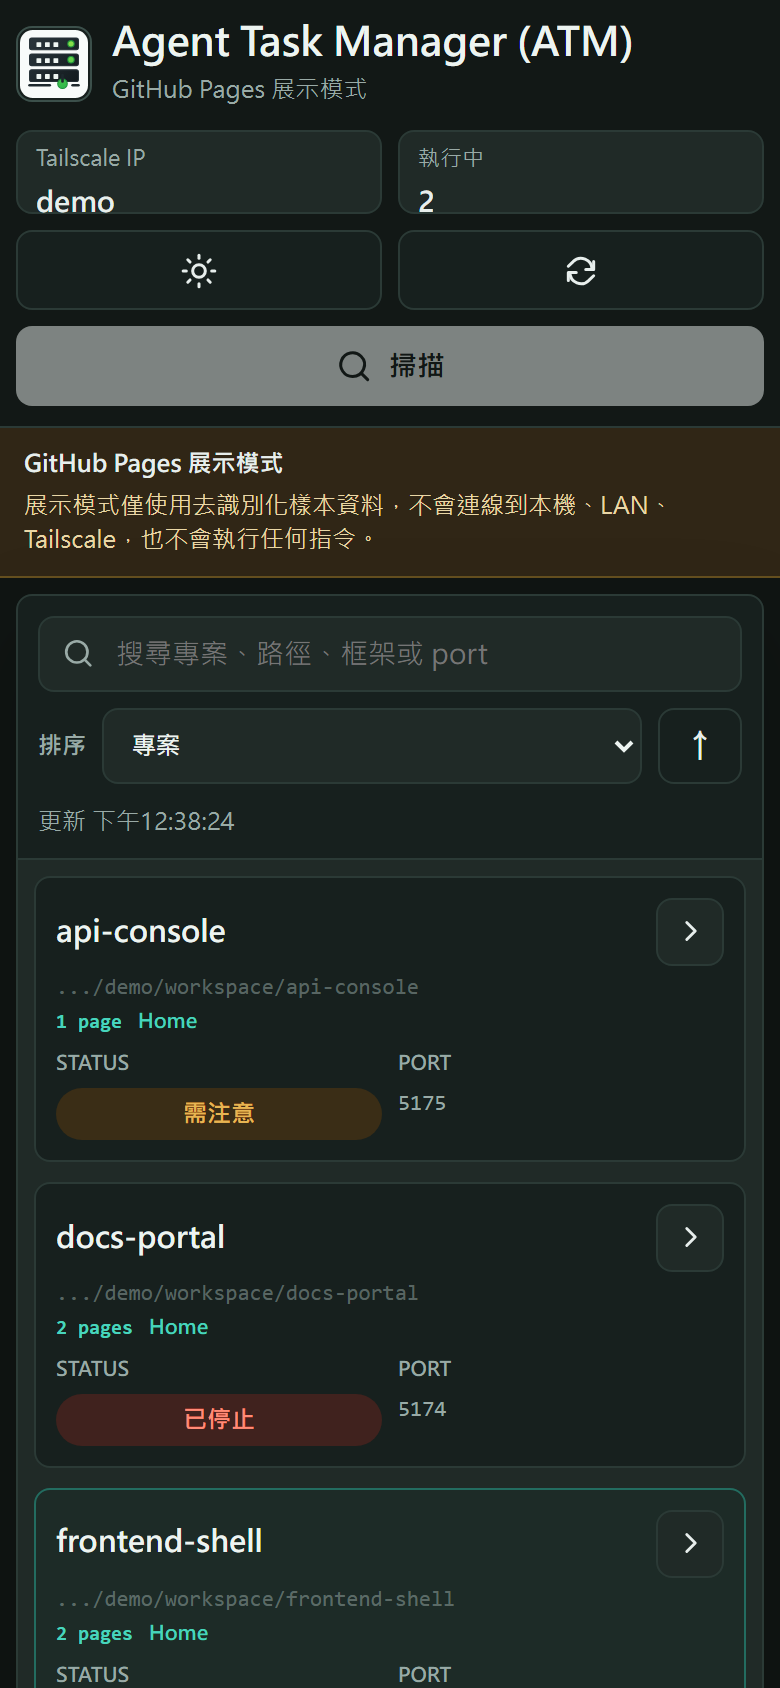
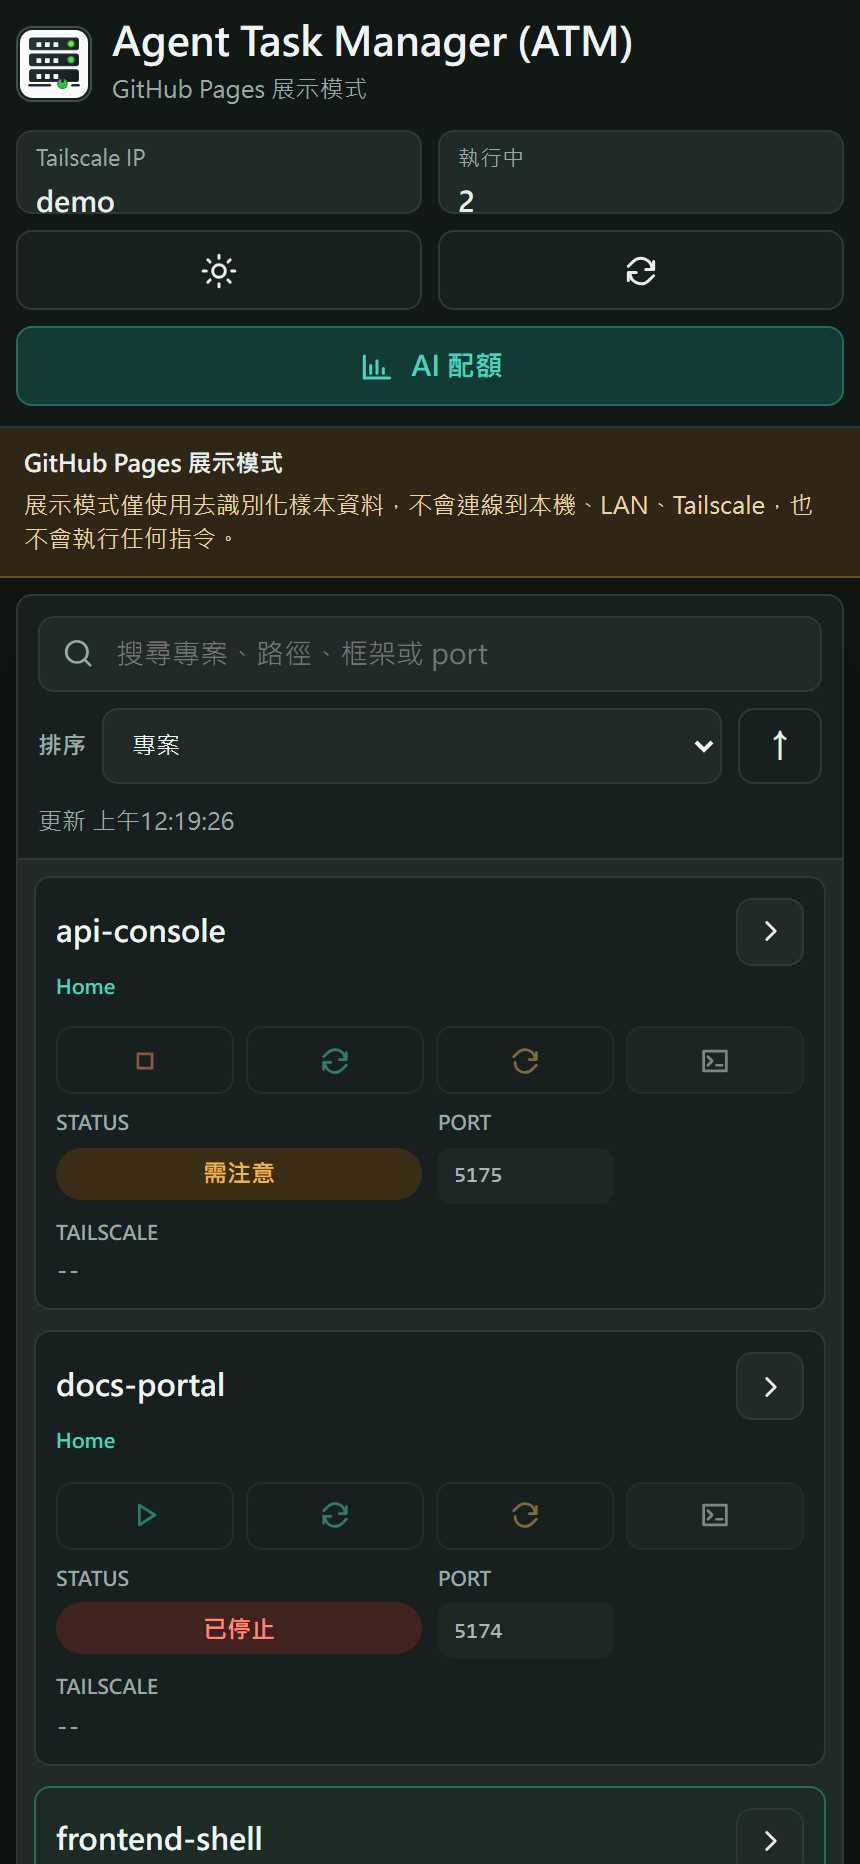
依各專案最新內容更新作品介紹並補拍核心功能截圖
作品描述已落後各專案本機 repo 數週到三個月，YOLO Elf 更停留在
已被取代的 YOLOv8／快速精準雙模式敘述。本次依各專案本機 repo 的
最後 commit 重寫描述、移除過時資訊，updatedAt 一律對齊該 commit
時間（UTC）。

主要更新：
- YOLO Elf：全面改寫為 YOLO26 + NMS-free、七種任務通道、六種追蹤器、
  ROI 區域、規則告警、SQLite 偵測歷史、多相機 NVR、Florence-2 VLM
- Steel vs Swarm：雲端／區網／單機三種連線機制、劇情戰役、
  手機虛擬搖桿與陀螺儀、四定位電腦玩家
- Breeze Elf：調性偵測主音、節奏時值簡譜、音準評分、歌詞對齊、
  台語 LoRA 後訓練模型 A/B 熱切換
- Mapping Elf：繪圖板 O 繞路線、D∞ 集水區等值線、3D 集水範圍
- Agent Task Manager：分頁終端、Terminal Pipeline、跨裝置記事本、
  AI 額度監控、每專案三入口開關
- Astro ELF：多種中心天體、重力透鏡、知識庫後台與 eval 基準
- Elven Chewing 補原生設定程式，Hex Snake 補回放封存分享

新增 12 張、更新 2 張截圖。線上 Demo 涵蓋不到的 YOLO Elf 設定頁／
偵測歷史與 Breeze Elf 簡譜／逐字詳情，改以本機歷史儲存資料
（events.db 的 83 筆偵測、remote_transcripts 的歌唱逐字稿）
透過唯讀重播渲染正式前端取得，全程未寫回任何作品專案。

描述變長後手機端會擠成一片，因此 description 改為支援空行分段，
App.tsx 拆成多個 <p>、styles.css 新增 .project-description 段距。

README 收錄作品表補齊先前缺漏的 Mapping Star、Elven Chewing、
Novel Elf、Agent Task Manager、Music Elf 五項。

diff --git a/src/App.tsx b/src/App.tsx
@@ -1352,7 +1352,15 @@ function ProjectDetail({
         <span>更新 {formatProjectDate(project.updatedAt)}</span>
       </div>
       <h3>{project.title}</h3>
-      <p>{project.description}</p>
+      <div className="project-description">
+        {project.description
+          .split(/\n{2,}/)
+          .map((paragraph) => paragraph.trim())
+          .filter(Boolean)
+          .map((paragraph, index) => (
+            <p key={index}>{paragraph}</p>
+          ))}
+      </div>
       {screenshots.length > 0 ? (
         <section className="project-gallery" aria-label={`${project.title} 作品圖片`}>
           <div className="project-gallery-heading">

diff --git a/src/styles.css b/src/styles.css
@@ -752,6 +752,12 @@ button {
   line-height: 1.75;
 }
 
+.project-description {
+  display: flex;
+  flex-direction: column;
+  gap: 14px;
+}
+
 .project-detail p {
   max-width: 760px;
   margin: 0;

diff --git a/docs/correction-notes.zh-TW.md b/docs/correction-notes.zh-TW.md
@@ -46,3 +46,53 @@
 - `Railway Elf` 的公開 README 目前無法解析，因此繁體中文描述先採保守版本；後續可補上實際功能、技術棧與設計細節。
 - 若要建立英文版，可在目前 JSON 結構上新增語系欄位，或建立獨立 `portfolio.en.json`。
 - 若有正式 email、個人網域或作品截圖，可再補進聯絡區與作品卡片。
+
+---
+
+# 作品內容同步更新
+
+更新日期：2026-08-12
+
+## 更新目標
+
+依各作品專案本機 repository 的最新內容重寫作品介紹、移除過時資訊，並針對主要更新的作品補拍核心功能截圖。`updatedAt` 一律對齊該專案本機 repo 的最後 commit 時間（UTC）。
+
+## 已完成更新
+
+- **Steel vs Swarm**（2026-07-14 → 2026-08-11）：補上雲端／區網（Tailscale）／單機瀏覽器內主機三種連線機制、雙陣營各六章的劇情戰役與觀戰、手機虛擬搖桿與陀螺儀瞄準、四種定位的電腦玩家、伺服器端 LOS 遮蔽。新增截圖：真實地圖建圖、劇情戰役、手機橫式虛擬搖桿。
+- **YOLO Elf**（2026-07-15 → 2026-08-11）：全面改寫。移除過時的「YOLOv8／快速與精準雙模式」為主的敘述，改以 YOLO26 與 NMS-free 推論、七種任務通道（偵測／實例分割／姿態／OBB／開放詞彙／語意分割／單目深度）、六種追蹤器、ROI 區域、規則告警與 webhook、SQLite 偵測歷史、多相機輕量 NVR、Florence-2 VLM 語意通道、存取控制、Prometheus 指標與 TensorRT/ONNX 匯出為主。新增截圖：多相機檢視端、VLM 語意通道。
+- **Breeze Elf**（2026-07-15 → 2026-08-11）：補上調性偵測主音、節拍估計與含附點的音符時值簡譜、依時長加權的音準評分、歌詞對齊、台語／歌唱 LoRA 後訓練模型 A/B 熱切換與部署腳本、搜尋結果直接摘要、`breeze doctor` 環境診斷。
+- **Mapping Elf**（2026-07-15 → 2026-08-11）：補上繪圖板（畫形狀 → 於目前位置附近規劃最接近的 O 繞跑步路線，含路網吸附、方位搜尋、里程校準與相似度回報）、集水區邊界改用 D∞ 貢獻度連續場等值線、3D 地形上的集水範圍繪製、整合式量測工具。新增截圖：繪圖板星形 O 繞路線。
+- **Agent Task Manager**（2026-05-22 → 2026-08-09）：補上 node-pty + xterm.js 分頁式終端、Terminal Pipeline 連續提示自動化、跨裝置同步記事本、AI 額度監控（Claude Code／Codex CLI／Antigravity CLI）、每專案 Local／LAN／Tailscale 入口獨立開關、多框架 dev server 辨識。更新管理台與手機版截圖，新增 AI 額度監控截圖。
+- **Astro ELF**（2026-07-15 → 2026-08-11）：補上中子星／白矮星／主序星等中心天體、Web Worker 重力透鏡、知識庫爬取監測後台與檢索品質 eval 基準、科學家檔案頁。
+- **Elven Chewing**、**Hex Snake**：分別補上原生設定程式、對局回放封存與分享。
+- **AI Tycoon**、**Mapping Star**、**Novel Elf**、**Music Elf**：僅同步 `updatedAt`，功能敘述維持不變。
+- **Railway Elf**、**Win Rate Calculator**、**Web TSP App**、**IIR Filter Tool**：本機 repo 無新 commit，未更動。
+- `README.md` 收錄作品表補齊先前缺漏的 Mapping Star、Elven Chewing、Novel Elf、Agent Task Manager、Music Elf 五項，並更新各作品類型敘述。
+
+## 版面調整
+
+作品描述變長後在手機上會擠成一整片文字，因此改為以空行分段：`portfolio.json` 的 `description` 支援以空行切段，`App.tsx` 依空行拆成多個 `<p>`，`styles.css` 新增 `.project-description` 控制段距。長篇作品（Steel vs Swarm、YOLO Elf、Breeze Elf、Mapping Elf、Astro ELF、Agent Task Manager、AI Tycoon）已分成 2–5 段，其餘維持單段。
+
+## 截圖方式
+
+以 Playwright 對各作品已部署的 GitHub Pages Demo 操作後截圖，未在任何作品專案目錄內新增或修改檔案。
+
+線上 Demo 涵蓋不到的兩項功能，改以**本機歷史儲存資料重播**補齊，同樣不寫回作品專案：
+
+- **YOLO Elf 設定頁與偵測歷史**：把 `static/` 與 `events.db` 複製到暫存區，另寫一支唯讀重播伺服器，依 `app/events.py` 的 `_row_to_public` 與 `app/config.py` 的實際預設值回應 `/api/events`、`/api/cameras`、`/api/detector/*`。歷史頁顯示的 83 筆出現紀錄全部來自 2026-08-10 實際跑過的偵測。
+- **Breeze Elf 簡譜與逐字詳情**：取 `remote_transcripts/` 的歷史逐字稿複本，由重播伺服器回應 `/api/transcribe/file` 與 `/api/transcript/analyze`，讓正式的 `web/` 前端渲染。另已驗證可用專案現行的 `_analyze_blocks_pitch` 對保存的錄音重跑後處理（該筆錄音得到主音 55.1 Hz、音準 80.2 分；因屬自由速度素材，節拍與音符時值依設計不輸出）。
+
+## 主要修改檔案
+
+- `src/data/portfolio.json`：作品描述、標籤、截圖清單與 `updatedAt`。
+- `public/project-screenshots/`：新增 12 張、更新 2 張截圖。
+- `src/App.tsx`：作品描述依空行分段輸出。
+- `src/styles.css`：新增 `.project-description` 段落間距。
+- `README.md`：收錄作品表。
+- `.gitignore`：忽略本地端專案位置對照表。
+
+## 待補事項
+
+- Breeze Elf 的歌詞對齊、節奏／音符時值與翻譯尚無截圖：現有歷史錄音沒有可量測的固定拍子，依設計不會輸出音符時值；歌詞對齊需要對應歌曲的完整歌詞。下次實際使用時順手保存一份逐字稿即可補上。
+- YOLO Elf 的「整張畫面」任務（語意分割、單目深度）與多相機格狀監看的實跑畫面，需要有實際串流才拍得到，目前僅有靜態展示版的示意畫面。

diff --git a/README.md b/README.md
@@ -15,19 +15,24 @@ Vite + React + TypeScript 建置的個人作品集與本地履歷 UI。內容以
 
 | 作品 | 類型 | Demo | Repository |
 | --- | --- | --- | --- |
-| Steel vs Swarm | 真實地圖 3D 對戰、無人機 vs 機甲、DOTA×FPS、權威伺服器 | https://changweilin.github.io/steel_vs_swarm/public/?mode=solo | https://github.com/changweilin/steel_vs_swarm |
+| Steel vs Swarm | 真實地圖 3D 對戰、無人機 vs 機甲、DOTA×FPS、權威伺服器、雲端／區網／單機三機制、劇情戰役、手機虛擬搖桿 | https://changweilin.github.io/steel_vs_swarm/public/?mode=solo | https://github.com/changweilin/steel_vs_swarm |
 | AI Tycoon | 科技巨頭策略桌遊、WebSocket 連線對戰、Three.js、AI 對弈 | https://changweilin.github.io/ai_tycoon/ | https://github.com/changweilin/ai_tycoon |
 | Astro ELF | 克爾–紐曼黑洞、吸積盤 MHD、重力波、AI 科學家對談、RAG 知識庫 | https://changweilin.github.io/astrophysics_elf/ | https://github.com/changweilin/astrophysics_elf |
-| Breeze Elf | 語音轉文字、faster-whisper、音高簡譜、語者分離、變聲工作室 | https://changweilin.github.io/breeze_elf/ | https://github.com/changweilin/breeze_elf |
-| YOLO Elf | 電腦視覺、即時物件偵測、瀏覽器串流與標記 | https://changweilin.github.io/yolo_elf/ | https://github.com/changweilin/yolo_elf |
+| Breeze Elf | 語音轉文字、faster-whisper、簡譜與音準評分、歌詞對齊、LoRA 模型切換、語者分離、變聲工作室 | https://changweilin.github.io/breeze_elf/ | https://github.com/changweilin/breeze_elf |
+| YOLO Elf | YOLO26、七種任務通道、多物件追蹤、ROI 區域、規則告警、偵測歷史、多相機、Florence-2 VLM | https://changweilin.github.io/yolo_elf/ | https://github.com/changweilin/yolo_elf |
+| Mapping Star | 地理搜尋、POI 星形解算、魔法陣視覺化、GPX/KML 匯出 | https://changweilin.github.io/mapping_star/ | https://github.com/changweilin/mapping_star |
+| Elven Chewing | Rust 輸入法、Windows TSF、模糊注音、WebAssembly Sandbox | https://changweilin.github.io/elven-chewing/ | https://github.com/changweilin/elven-chewing |
+| Novel Elf | LLM-wiki 世界觀、地圖編年史、AI 協作寫作 | https://changweilin.github.io/novel_elf/ | https://github.com/changweilin/novel_elf |
+| Agent Task Manager | 多專案 dev server 管理、終端分頁、Pipeline 自動化、Tailscale 分享、AI 額度監控 | https://changweilin.github.io/agent-task-manager/ | https://github.com/changweilin/agent-task-manager |
+| Music Elf | C++17 音訊分析、歌聲轉 MIDI/MusicXML、和弦推斷 | https://changweilin.github.io/music_elf/ | https://github.com/changweilin/music_elf |
 | Win Rate Calculator | 勝率計算、機率模型、互動工具 | https://changweilin.github.io/win_rate_calculator/ | https://github.com/changweilin/win_rate_calculator |
-| Mapping Elf | 戶外地圖、2D/3D 地形、逐點天氣、集水區水文、GPX/KML | https://changweilin.github.io/mapping_elf/ | https://github.com/changweilin/mapping_elf |
-| Hex Snake | 六角格遊戲、AI 對弈、平衡模擬 | https://changweilin.github.io/hex_snake/ | https://github.com/changweilin/hex_snake |
+| Mapping Elf | 戶外地圖、2D/3D 地形、逐點天氣、集水區水文、繪圖板 O 繞路線、GPX/KML | https://changweilin.github.io/mapping_elf/ | https://github.com/changweilin/mapping_elf |
+| Hex Snake | 六角格遊戲、AI 對弈、平衡模擬、回放封存 | https://changweilin.github.io/hex_snake/ | https://github.com/changweilin/hex_snake |
 | Railway Elf | 鐵路主題互動網頁 | https://changweilin.github.io/railway_elf/ | https://github.com/changweilin/railway_elf |
 | Web TSP App | TSP、最佳化、演算法視覺化 | https://changweilin.github.io/web_tsp_app/ | https://github.com/changweilin/web_tsp_app |
 | IIR Filter Tool | DSP、IIR 濾波器、訊號處理視覺化 | https://changweilin.github.io/iir_filter_tool/ | https://github.com/changweilin/iir_filter_tool |
 
-修正紀錄請見：`docs/correction-notes.zh-TW.md`
+作品順序與 `src/data/portfolio.json` 一致。修正紀錄請見：`docs/correction-notes.zh-TW.md`
 
 ## 技術棧
 
